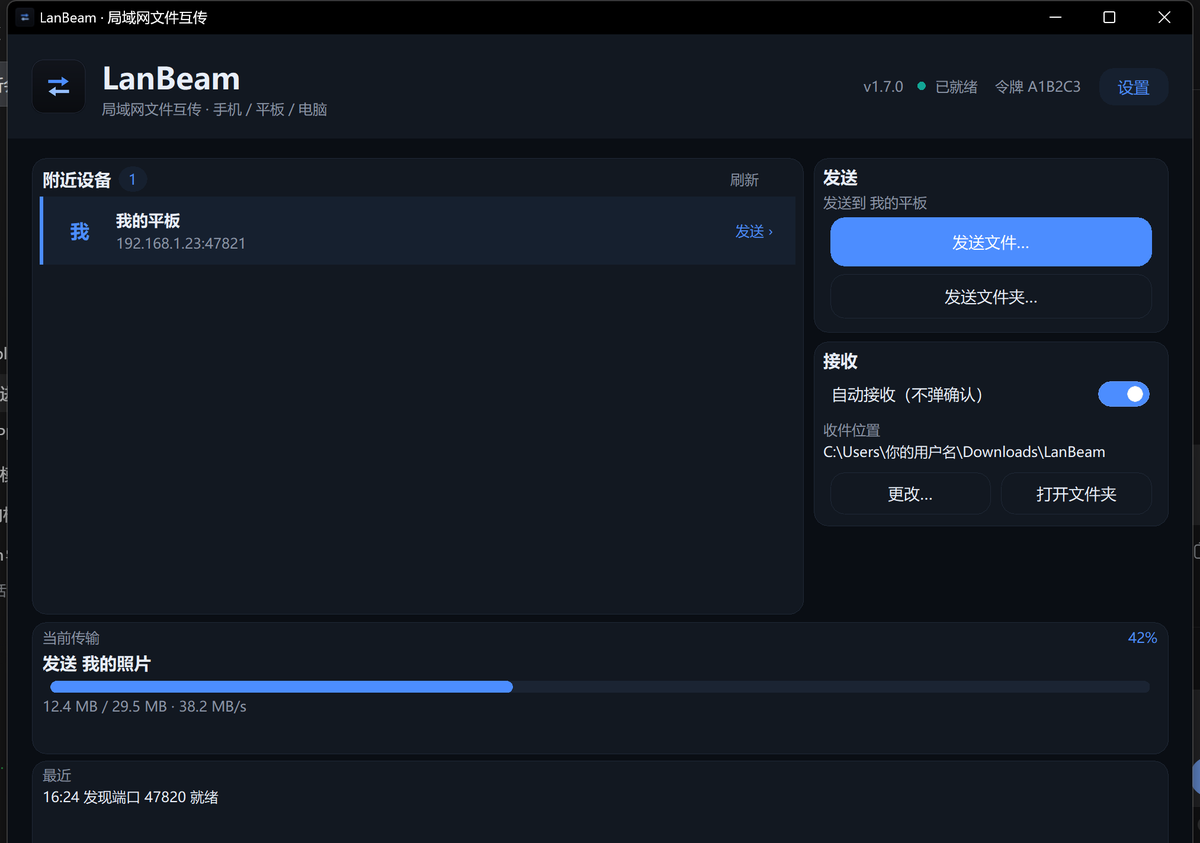
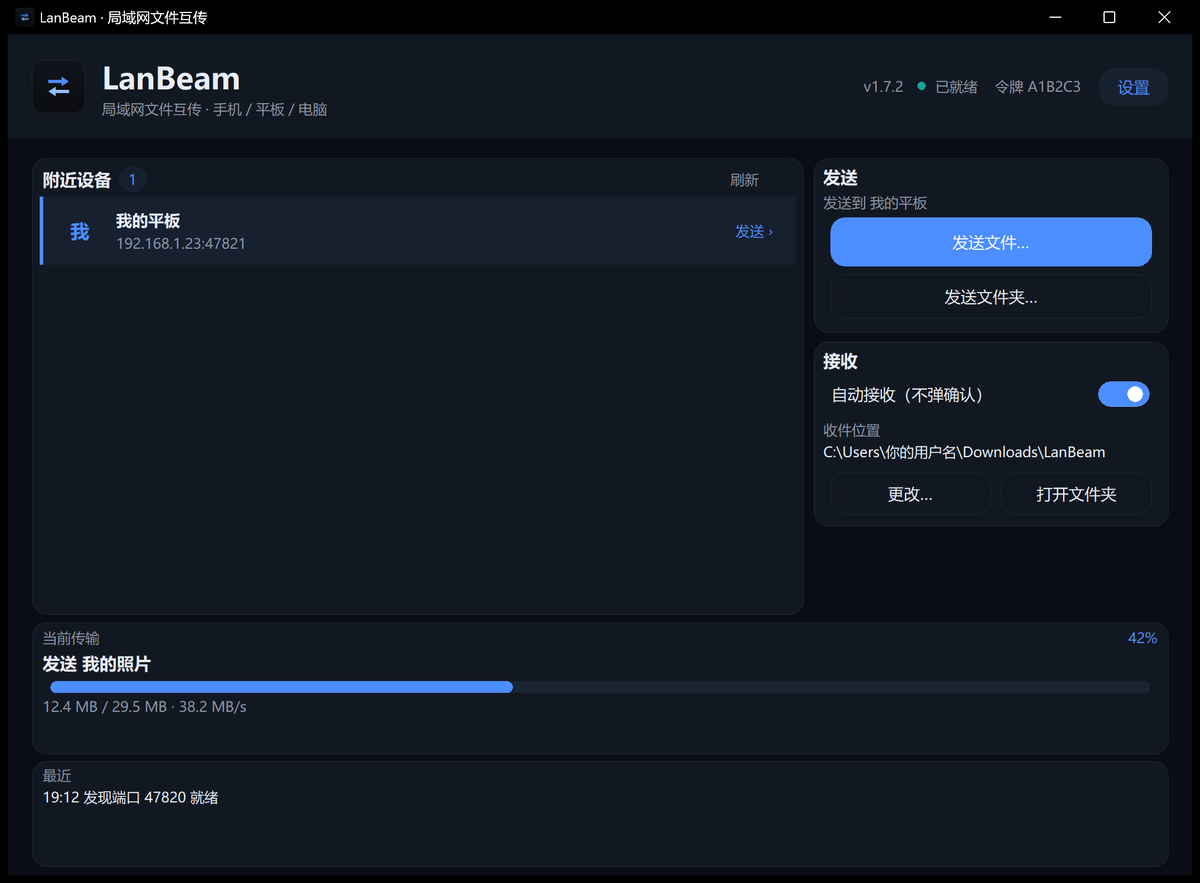
docs: 首屏精简、鸿蒙区块收紧、Windows 截图重截（去掉桌面背景）

diff --git a/docs/index.html b/docs/index.html
@@ -74,15 +74,14 @@ header{
 .hero{padding:76px 0 40px; display:grid; grid-template-columns:1.05fr .95fr; gap:48px; align-items:center}
 .eyebrow{
   display:inline-flex; align-items:center; gap:8px; font-size:13px; color:var(--accent);
+  word-break:keep-all;
   background:rgba(76,141,255,.10); border:1px solid rgba(76,141,255,.25);
   padding:5px 12px; border-radius:999px; margin-bottom:20px;
 }
 .hero h1{font-size:52px; line-height:1.14; margin:0 0 18px; letter-spacing:-.5px}
 .hero h1 span{color:var(--accent)}
 .hero p.lead{font-size:17px; color:var(--muted); margin:0 0 28px; max-width:560px}
-.cta{display:flex; gap:12px; flex-wrap:wrap; margin-bottom:18px}
-.meta{display:flex; gap:18px; flex-wrap:wrap; color:var(--muted); font-size:13px}
-.meta b{color:var(--text); font-weight:600}
+.cta{display:flex; gap:12px; flex-wrap:wrap; margin-bottom:6px}
 
 .shot-frame{
   border:1px solid var(--line); border-radius:14px; overflow:hidden;
@@ -127,20 +126,10 @@ section{padding:64px 0}
 @media (max-width:980px){.android-grid{grid-template-columns:repeat(2,1fr)}}
 @media (max-width:640px){.android-grid{grid-template-columns:1fr}}
 
-/* 三端状态 */
-.platforms{display:flex;flex-wrap:wrap;gap:9px;margin-top:20px;font-size:12.5px;color:var(--muted)}
-.platforms .tag{display:inline-flex;align-items:center;gap:6px;border:1px solid var(--line);border-radius:999px;padding:4px 11px;background:rgba(255,255,255,.02)}
-.platforms .tag b{color:var(--text);font-weight:600}
-.platforms .tag.ok{color:#5eead4;border-color:rgba(18,165,148,.35);background:rgba(18,165,148,.08)}
-
 /* 鸿蒙 */
-.harmony{display:grid;grid-template-columns:1fr 1fr;gap:36px;align-items:center}
-.harmony .badge{
-  display:inline-flex;align-items:center;gap:7px;font-size:12.5px;color:#5eead4;
-  background:rgba(18,165,148,.10);border:1px solid rgba(18,165,148,.30);
-  padding:4px 11px;border-radius:999px;
-}
-.harmony h3{font-size:24px;margin:14px 0 10px;letter-spacing:-.2px}
+.harmony{display:grid;grid-template-columns:1fr 1fr;gap:36px;align-items:start}
+.harmony-copy{padding-top:4px}
+.harmony h3{font-size:24px;margin:0 0 10px;letter-spacing:-.2px}
 .harmony p{color:var(--muted);font-size:14.5px;margin:0 0 14px}
 .ticks{list-style:none;padding:0;margin:0 0 14px;display:grid;gap:8px}
 .ticks li{position:relative;padding-left:20px;font-size:14px;color:var(--muted)}
@@ -207,7 +196,6 @@ footer{border-top:1px solid var(--line); padding:28px 0 46px; color:var(--muted)
   .hero h1{font-size:33px}
   section{padding:48px 0}
   .download{padding:22px}
-  .meta{font-size:12.5px}
 }
 </style>
 </head>
@@ -240,20 +228,8 @@ footer{border-top:1px solid var(--line); padding:28px 0 46px; color:var(--muted)
         <h1>同一 Wi-Fi，<br><span>双击就传</span></h1>
         <p class="lead">电脑、手机、平板打开 LanBeam 就能互相看见：选中、发送，对方点一下「是」，文件就进了对方的文件夹。不注册、不限大小，传一半断了还能接着传。</p>
         <div class="cta">
-          <a class="btn btn-primary" href="#download">下载 Windows 版 v1.7.2</a>
+          <a class="btn btn-primary" href="#download">下载 Windows 版</a>
           <a class="btn btn-ghost" href="#android">手机版（安卓 / 鸿蒙）</a>
-        </div>
-        <div class="meta">
-          <span><b>约 29 MB</b> 单文件</span>
-          <span><b>免安装</b> 双击即用</span>
-          <span><b>不需要</b> 管理员权限</span>
-          <span><b>不走</b> 任何服务器</span>
-        </div>
-        <div class="platforms">
-          <span class="tag ok">三端齐了</span>
-          <span class="tag"><b>Windows</b> v1.7.2</span>
-          <span class="tag"><b>Android</b> v1.0.1</span>
-          <span class="tag"><b>HarmonyOS</b> v1.3.4 · 已上架</span>
         </div>
       </div>
       <div class="shot-frame"><img src="img/app-dark.png" alt="LanBeam 主界面"></div>
@@ -325,7 +301,7 @@ footer{border-top:1px solid var(--line); padding:28px 0 46px; color:var(--muted)
       <div class="sec-head">
         <div class="kicker">Android</div>
         <h2>手机上也能收、也能发</h2>
-        <p>同一套协议，安卓端 1.0.1 从零实现：自动发现电脑、接收文件、发送文件 / 文件夹 / 相册，断了接着传，收件箱一键导出到「下载/LanBeam」。不申请存储权限，没有广告和统计。</p>
+        <p>同一套协议，安卓端从零实现：自动发现电脑、接收文件、发送文件 / 文件夹 / 相册，断了接着传，收件箱一键导出到「下载/LanBeam」。不申请存储权限，没有广告和统计。</p>
       </div>
       <div class="android-grid">
         <figure>
@@ -360,22 +336,19 @@ footer{border-top:1px solid var(--line); padding:28px 0 46px; color:var(--muted)
 
     <section id="harmony">
       <div class="sec-head">
-        <div class="kicker">HarmonyOS</div>
-        <h2>鸿蒙版也上架了</h2>
-        <p>2026 年 11 月 20 日，鸿蒙版 1.3.4 通过华为审核，正式上架华为应用市场。到这儿，Windows、Android、HarmonyOS 三端都齐了——同一套协议，同一个 Wi-Fi 下互相发现、互相收发。</p>
+        <h2>鸿蒙版</h2>
+        <p>原生 ArkTS / ArkUI 写的，已上架华为应用市场。手机和平板都能装，和 Windows、安卓同一套协议，同一个 Wi-Fi 下互相发现、互相收发。</p>
       </div>
       <div class="harmony">
         <div class="harmony-copy">
-          <span class="badge">已上架华为应用市场</span>
           <h3>在应用市场搜索「LanBeam」</h3>
-          <p>原生 ArkTS / ArkUI 写的，不是套壳网页。手机和平板都能装。</p>
           <ul class="ticks">
             <li>自动发现同一 Wi-Fi 下的电脑、手机、平板，点一下就能发</li>
             <li>文件、文件夹、相册里的图片和视频，原样传，不压缩</li>
             <li>断了能续；传的过程中可以暂停、继续、取消</li>
             <li>手机收件箱 + 一键导出到系统「文件」；平板直存「下载/LanBeam」</li>
           </ul>
-          <p style="font-size:13px;margin-bottom:0">版本 1.3.4 ｜ 包名 com.moyuli.lanbeam</p>
+          <p style="font-size:13px;margin-bottom:0">包名 com.moyuli.lanbeam</p>
         </div>
         <div class="harmony-shots">
           <div class="shot-frame"><img src="img/harmony-main.png" alt="鸿蒙版主界面"></div>
@@ -456,14 +429,14 @@ footer{border-top:1px solid var(--line); padding:28px 0 46px; color:var(--muted)
             <a class="btn btn-primary" href="https://appgallery.huawei.com/">打开华为应用市场</a>
             <a class="btn btn-ghost" href="#harmony">看看界面</a>
           </div>
-          <div class="dl-note">2026-11-20 通过审核上架。与 Windows、安卓端互通，协议 v2。</div>
+          <div class="dl-note">与 Windows、安卓端互通，协议 v2。传原图、原视频，不压缩。</div>
         </div>
         <div class="dl-facts">
           <div class="fact"><span>版本</span><b>v1.3.4</b></div>
           <div class="fact"><span>大小</span><b>约 240 KB（hap）</b></div>
           <div class="fact"><span>系统</span><b>HarmonyOS 手机 / 平板</b></div>
           <div class="fact"><span>许可</span><b>MIT</b></div>
-          <div class="fact"><span>上架</span><b>2026-11-20</b></div>
+          <div class="fact"><span>获取</span><b>华为应用市场</b></div>
         </div>
       </div>
     </section>
@@ -488,7 +461,7 @@ footer{border-top:1px solid var(--line); padding:28px 0 46px; color:var(--muted)
         </details>
         <details>
           <summary>支持手机、平板吗？</summary>
-          <p>支持。鸿蒙版 1.3.4 已于 2026-11-20 通过审核、上架华为应用市场；安卓版 1.0.1 可以直接装 APK。三端共用同一套协议 v2，同一 Wi-Fi 下互相能发现、能收发。</p>
+          <p>支持。鸿蒙版已上架华为应用市场；安卓版可以直接装 APK。三端共用同一套协议 v2，同一 Wi-Fi 下互相能发现、能收发。</p>
         </details>
         <details>
           <summary>鸿蒙版和安卓版有什么区别？</summary>
